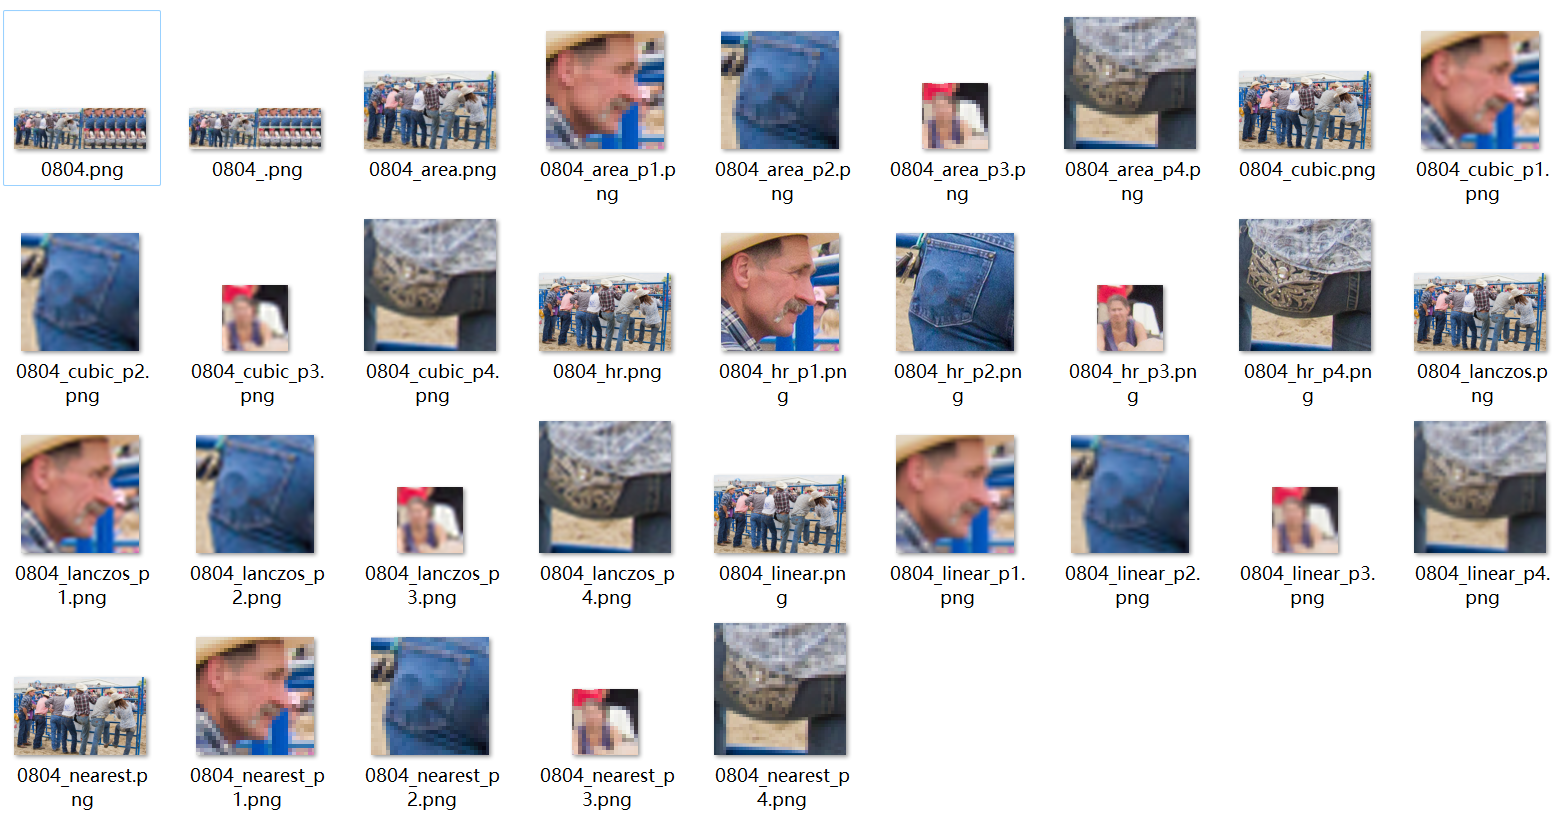
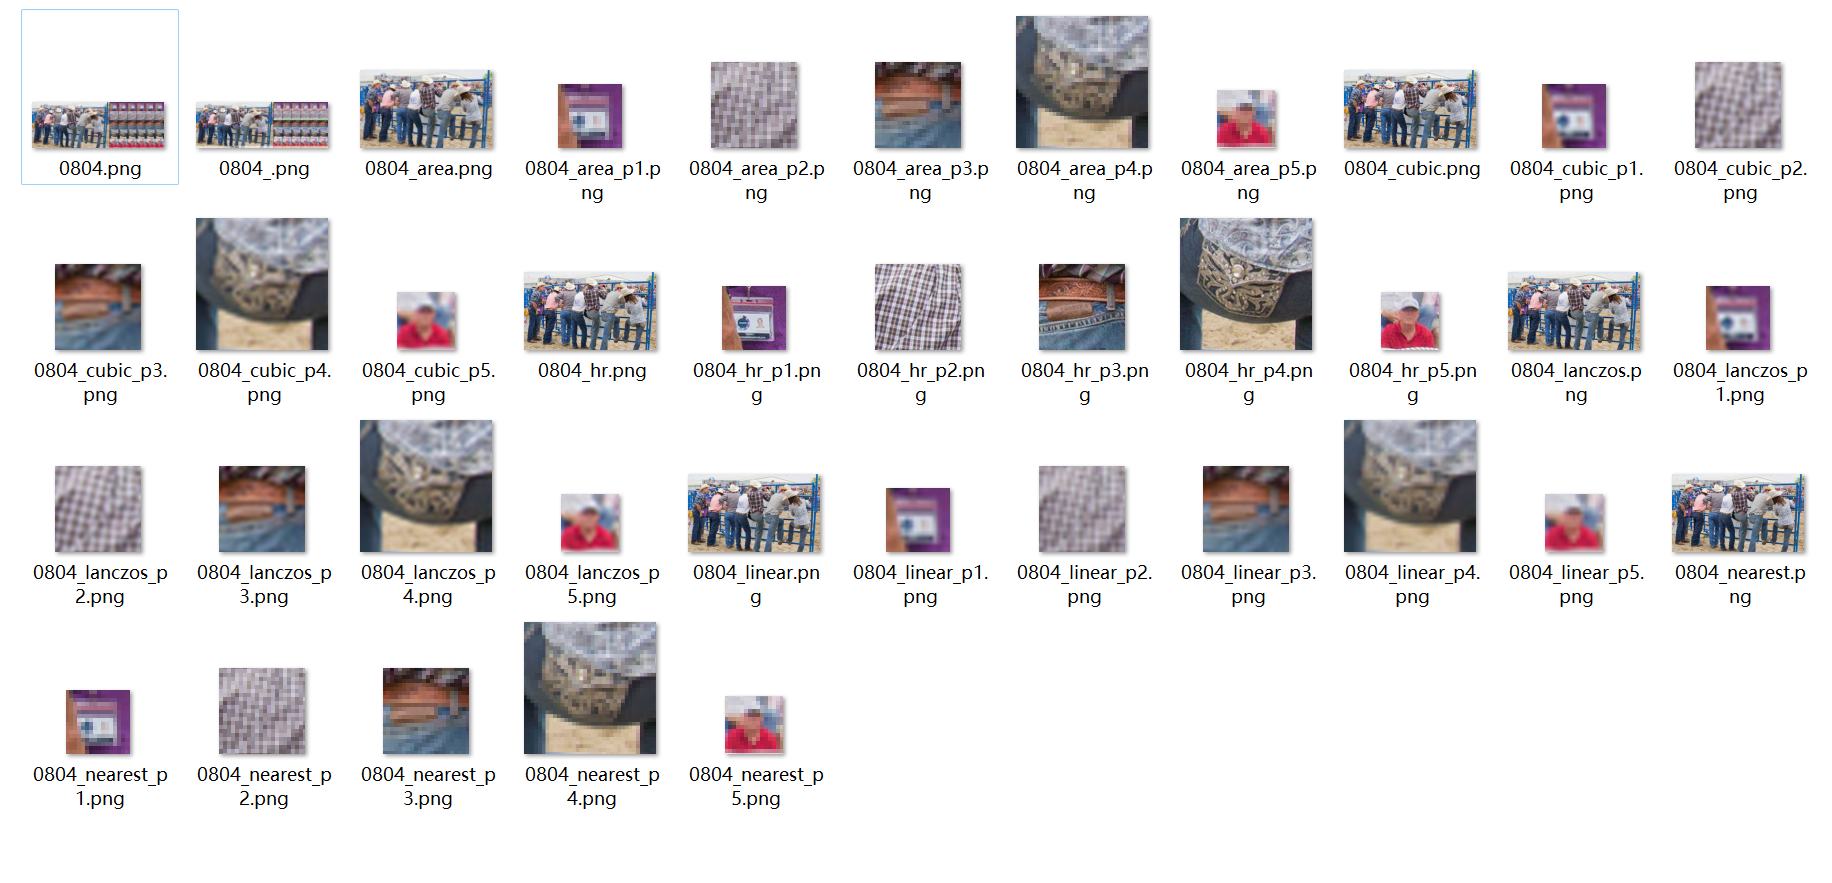
update script

diff --git a/SR_Viewer.py b/SR_Viewer.py
@@ -44,7 +44,7 @@ def addText(image, text, color=(0, 0, 0)):
     image2 = Image.fromarray(image2)
     font = ImageFont.truetype('FreeMono.ttf', font_size)
     draw = ImageDraw.Draw(image2)
-    draw.text((image_w//2, mask_size//2), text, font=font, anchor='mm', fill=color, stroke_width=0)
+    draw.text((image_w//2, mask_size//2), text, font=font, anchor='mm', fill=color, stroke_width=1)
     image = np.asarray(image)
     image = np.vstack((image1, image2))
     return image
@@ -94,14 +94,14 @@ def reset_interface():
 result_names = ['hr', 'nearest', 'linear', 'area', 'cubic', 'lanczos']
 result_paths = ['results/hr', 'results/nearest', 'results/linear', 'results/area', 'results/cubic', 'results/lanczos']
 main_index = 0
-crop_num = 4
+crop_num = 5
 row_num = 1
 col_num = math.ceil(len(result_names) / row_num)
 
 # Other Configuration
 aspect_ratio = 0
 crop_thickness = 2
-crop_colors = [(0, 0, 255), (0, 255, 0), (255, 0, 0), (0, 255, 255), (255, 0, 255), (255, 255, 0)]
+crop_colors = [(0, 0, 220), (0, 220, 0), (255, 0, 0), (220, 0, 220), (0, 220, 220)]
 pad_size = 3
 pad_color = (0, 0, 0)
 mask_size = 40
@@ -109,7 +109,6 @@ font_size = 35
 
 # Scan Images
 image_names = scan_image(result_paths[main_index])
-print(image_names)
 for i in range(len(image_names)):
     for j in range(len(result_names)):
         if not os.path.exists('%s/%s' % (result_paths[j], image_names[i])):
@@ -150,7 +149,7 @@ while True:
                 crop_y, crop_x = j // col_num + i * row_num, j % col_num
                 crop_y, crop_x = (crop_size + pad_size) * crop_y + canvas_y, (crop_size + pad_size) * crop_x + pad_size + canvas_x + canvas_image_w
                 crop = ncanvas[crop_y:crop_y+crop_size, crop_x:crop_x+crop_size]
-                crop = addText(crop, result_names[i], crop_colors[i])
+                crop = addText(crop, result_names[j], crop_colors[i])
                 ncanvas[crop_y:crop_y+crop_size, crop_x:crop_x+crop_size] = crop
     cv2.imshow('SR Viewer', ncanvas)
 
@@ -182,4 +181,3 @@ while True:
     if key == ord('q'):
         cv2.destroyAllWindows()
         break
-    
